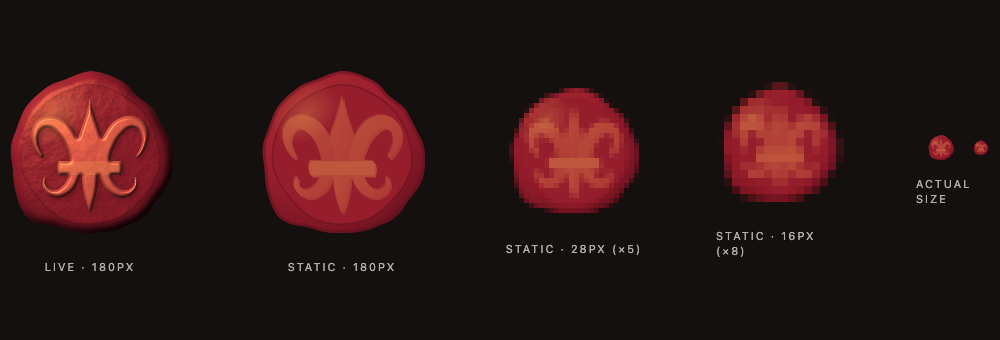
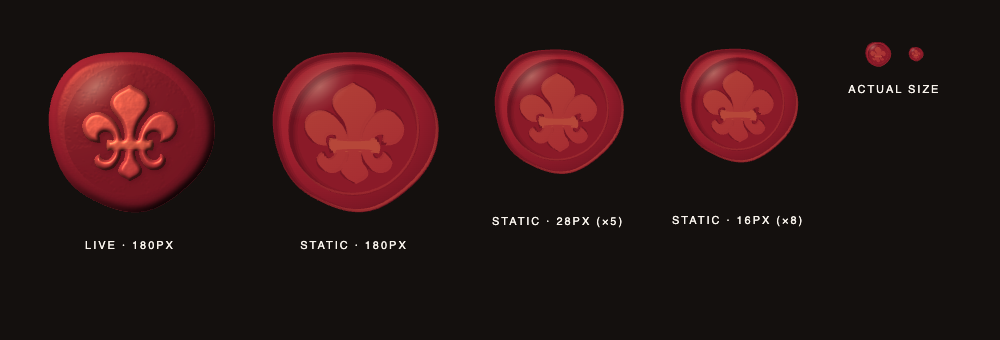
fix(seal): redraw the mark — classic heraldic fleur on poured wax
The first cut read as hand-drawn: spindly petals with hook curls on a
lumpy, flat disc. The fleur-de-lis is now the classic heraldic form
(Wikimedia Commons "Fleur de lis flat", CC0) scaled into the die, with
the band laid over its tie as its own heavier shape. The wax is a smooth
poured puddle modelled in one crimson by light alone: bevelled rim, sunken
field with a soft inner shadow, raised relief with lit and shadowed edges,
and a warm gloss. The live overlay's grain is calmer so the hero seal no
longer mottles.

tools/seal/sheet.test.tsx (opt-in via SEAL_SHEET / SEAL_ASSETS) renders
the design sheet and regenerates favicon.svg and the touch-icon source.

Refs #9

Claude-Session: https://claude.ai/code/session_01XkqtsnKhVTQbKsCyDLmGRB

diff --git a/src/components/sealPaths.ts b/src/components/sealPaths.ts
@@ -2,19 +2,14 @@
 // Vector artwork for the wax seal, in a 100×100 user space centred at (50,50).
 
 /** irregular outline of the wax disc */
-export const WAX = "M96.1,50C96.3,52.4 96.1,54.9 95.9,57.3C95.6,59.7 95.3,62.2 94.4,64.4C93.5,66.7 92,68.7 90.6,70.7C89.2,72.7 87.6,74.4 86.2,76.3C84.8,78.3 83.8,80.5 82.2,82.2C80.6,83.9 78.6,85.4 76.6,86.6C74.6,87.8 72.3,88.5 70.1,89.4C67.9,90.3 65.8,91.3 63.6,91.9C61.4,92.5 59.1,92.9 56.8,93.1C54.6,93.4 52.3,93.3 50,93.3C47.7,93.3 45.4,93.5 43.2,93.2C40.9,93 38.7,92.3 36.4,91.8C34.2,91.2 32.1,90.4 29.7,89.9C27.3,89.3 24.5,89.3 22,88.5C19.6,87.6 17,86.5 15.2,84.8C13.3,83.1 12.1,80.6 11.1,78.3C10,76 9.3,73.5 8.7,71.1C8,68.7 7.7,66.2 7.4,63.8C7.1,61.5 7.1,59.1 6.9,56.8C6.7,54.5 6.1,52.3 6,50C5.9,47.7 5.9,45.3 6.4,43.1C6.8,40.9 7.9,38.7 8.7,36.6C9.4,34.4 10.1,32.3 11,30.1C11.9,28 12.7,25.8 14,23.8C15.2,21.9 16.9,20.2 18.5,18.5C20.2,16.9 21.9,15.3 23.8,13.9C25.6,12.5 27.6,11.2 29.7,10.2C31.8,9.2 34.1,8.7 36.3,7.9C38.5,7.1 40.6,6 42.9,5.2C45.2,4.5 47.6,3.5 50,3.4C52.4,3.2 54.9,3.8 57.2,4.4C59.5,5 61.8,6 64,7.1C66.1,8.1 68.3,9.1 70.1,10.6C71.9,12 73.2,14.2 74.8,15.8C76.5,17.4 78.2,18.6 80,20C81.7,21.5 83.8,22.7 85.2,24.4C86.6,26.2 87.5,28.4 88.5,30.4C89.6,32.4 90.5,34.4 91.6,36.5C92.6,38.6 94.1,40.7 94.8,42.9C95.6,45.2 96,47.6 96.1,50Z";
+export const WAX = "M97.1,50C97.1,51.5 97,53.1 96.8,54.6C96.6,56.1 96.3,57.7 96,59.1C95.6,60.6 95.2,62.1 94.6,63.5C94.1,65 93.5,66.4 92.8,67.7C92.1,69.1 91.3,70.4 90.5,71.6C89.6,72.9 88.7,74.1 87.8,75.2C86.8,76.4 85.8,77.5 84.8,78.6C83.8,79.6 82.7,80.6 81.6,81.6C80.5,82.6 79.4,83.6 78.3,84.5C77.2,85.4 76,86.3 74.8,87.2C73.6,88 72.4,88.9 71.2,89.7C70,90.5 68.7,91.2 67.4,91.9C66,92.6 64.7,93.2 63.3,93.8C61.9,94.3 60.4,94.7 59,95.1C57.5,95.4 56,95.6 54.5,95.7C53,95.8 51.5,95.7 50,95.6C48.5,95.5 47,95.3 45.6,95C44.1,94.7 42.7,94.3 41.3,93.8C39.9,93.4 38.5,92.9 37.2,92.4C35.8,91.8 34.5,91.3 33.2,90.7C31.8,90.1 30.5,89.5 29.3,88.8C28,88.1 26.7,87.4 25.5,86.7C24.3,85.9 23.1,85.1 21.9,84.2C20.8,83.3 19.7,82.4 18.6,81.4C17.6,80.4 16.6,79.3 15.7,78.2C14.8,77 13.9,75.8 13.1,74.6C12.4,73.4 11.7,72.1 11,70.8C10.4,69.5 9.8,68.2 9.3,66.9C8.7,65.5 8.3,64.2 7.8,62.8C7.4,61.4 7,60 6.6,58.6C6.3,57.2 6,55.8 5.7,54.4C5.4,52.9 5.2,51.5 5.1,50C4.9,48.5 4.8,47 4.8,45.5C4.8,44.1 4.8,42.5 4.9,41C5.1,39.5 5.3,38 5.6,36.5C5.8,35 6.2,33.5 6.6,32C7.1,30.6 7.6,29.1 8.2,27.7C8.8,26.2 9.5,24.8 10.3,23.5C11.1,22.1 11.9,20.8 12.9,19.5C13.8,18.3 14.9,17.1 16,16C17.1,14.9 18.4,13.9 19.7,13C21,12.1 22.3,11.4 23.7,10.7C25.1,10 26.6,9.5 28.1,9C29.6,8.5 31.1,8.2 32.6,7.9C34.1,7.6 35.6,7.4 37,7.3C38.5,7.1 40,7 41.4,7C42.9,6.9 44.3,6.9 45.7,6.8C47.2,6.8 48.6,6.8 50,6.8C51.4,6.9 52.8,6.9 54.2,7C55.6,7.2 57.1,7.3 58.4,7.5C59.8,7.8 61.2,8 62.6,8.4C64,8.8 65.3,9.2 66.7,9.8C68,10.3 69.3,10.9 70.5,11.6C71.8,12.3 73,13 74.2,13.8C75.3,14.6 76.5,15.5 77.6,16.4C78.7,17.3 79.8,18.2 80.9,19.1C81.9,20.1 83,21.1 84,22.1C85,23.1 86,24.2 87,25.3C88,26.4 88.9,27.5 89.8,28.7C90.7,29.9 91.5,31.2 92.3,32.5C93.1,33.8 93.8,35.1 94.4,36.5C95,37.9 95.5,39.4 95.9,40.9C96.3,42.4 96.6,43.9 96.8,45.4C97,46.9 97.1,48.5 97.1,50Z";
 /** pressed field inside the raised rim */
-export const FIELD = "M88.7,50C88.8,52.9 88.7,55.9 88,58.7C87.3,61.4 85.9,64.1 84.5,66.6C83.1,69.1 81.2,71.3 79.4,73.4C77.5,75.6 75.6,77.6 73.5,79.5C71.4,81.3 69.1,83.1 66.6,84.4C64.1,85.8 61.3,86.7 58.5,87.4C55.8,88 52.9,88.3 50,88.4C47.1,88.4 44.2,88.3 41.4,87.7C38.6,87.1 35.8,86.1 33.3,84.8C30.8,83.4 28.5,81.5 26.4,79.6C24.3,77.7 22.5,75.5 20.8,73.3C19,71.1 17.2,68.9 15.8,66.5C14.4,64 13.1,61.3 12.3,58.6C11.6,55.9 11.3,52.9 11.3,50C11.4,47.1 11.9,44.2 12.6,41.5C13.3,38.7 14.3,35.9 15.5,33.4C16.8,30.9 18.3,28.4 20.2,26.2C22,24.1 24.2,22.2 26.5,20.5C28.7,18.8 31.2,17.4 33.7,16.1C36.2,14.8 38.7,13.5 41.5,12.6C44.2,11.8 47.1,11.1 50,11C52.9,11 55.9,11.5 58.6,12.3C61.3,13.1 64,14.4 66.5,15.8C69,17.1 71.4,18.6 73.6,20.4C75.8,22.2 78,24.1 79.7,26.3C81.5,28.5 82.9,31 84.2,33.5C85.4,36.1 86.3,38.8 87.1,41.5C87.8,44.3 88.5,47.1 88.7,50Z";
+export const FIELD = "M86.5,50C86.5,51.6 86.4,53.2 86.2,54.8C86,56.3 85.7,57.9 85.3,59.4C84.8,61 84.3,62.5 83.7,64C83.1,65.4 82.4,66.9 81.6,68.3C80.8,69.6 79.9,71 79,72.2C78,73.5 76.9,74.7 75.8,75.8C74.7,76.9 73.5,78 72.2,79C71,79.9 69.6,80.8 68.3,81.6C66.9,82.4 65.4,83.1 64,83.7C62.5,84.3 61,84.8 59.4,85.3C57.9,85.7 56.3,86 54.8,86.2C53.2,86.4 51.6,86.5 50,86.5C48.4,86.5 46.8,86.4 45.2,86.2C43.7,86 42.1,85.7 40.6,85.3C39,84.8 37.5,84.3 36,83.7C34.6,83.1 33.1,82.4 31.8,81.6C30.4,80.8 29,79.9 27.8,79C26.5,78 25.3,76.9 24.2,75.8C23.1,74.7 22,73.5 21,72.2C20.1,71 19.2,69.6 18.4,68.3C17.6,66.9 16.9,65.4 16.3,64C15.7,62.5 15.2,61 14.7,59.4C14.3,57.9 14,56.3 13.8,54.8C13.6,53.2 13.5,51.6 13.5,50C13.5,48.4 13.6,46.8 13.8,45.2C14,43.7 14.3,42.1 14.7,40.6C15.2,39 15.7,37.5 16.3,36C16.9,34.6 17.6,33.1 18.4,31.7C19.2,30.4 20.1,29 21,27.8C22,26.5 23.1,25.3 24.2,24.2C25.3,23.1 26.5,22 27.8,21C29,20.1 30.4,19.2 31.7,18.4C33.1,17.6 34.6,16.9 36,16.3C37.5,15.7 39,15.2 40.6,14.7C42.1,14.3 43.7,14 45.2,13.8C46.8,13.6 48.4,13.5 50,13.5C51.6,13.5 53.2,13.6 54.8,13.8C56.3,14 57.9,14.3 59.4,14.7C61,15.2 62.5,15.7 64,16.3C65.4,16.9 66.9,17.6 68.3,18.4C69.6,19.2 71,20.1 72.2,21C73.5,22 74.7,23.1 75.8,24.2C76.9,25.3 78,26.5 79,27.8C79.9,29 80.8,30.4 81.6,31.7C82.4,33.1 83.1,34.6 83.7,36C84.3,37.5 84.8,39 85.3,40.6C85.7,42.1 86,43.7 86.2,45.2C86.4,46.8 86.5,48.4 86.5,50Z";
 /** fleur-de-lis pieces, excluding the band */
 export const FLEUR = {
-  centre: "M50,16.5C50.6,23.5 53.8,31 56.4,39.5C58.4,46 57.6,50.5 56.2,54L43.8,54C42.4,50.5 41.6,46 43.6,39.5C46.2,31 49.4,23.5 50,16.5Z",
-  petalL: "M46.1,56.7C47.2,56 46.1,53.9 46,52.5C45.9,51.1 45.7,49.5 45.5,48.1C45.2,46.6 44.8,45.1 44.3,43.7C43.8,42.2 43.3,40.9 42.7,39.6C42,38.2 41.4,36.8 40.5,35.5C39.6,34.2 38.5,32.7 37.2,31.6C35.9,30.5 34.3,29.5 32.6,28.9C30.9,28.2 29,27.7 27.1,27.9C25.3,28.1 23,28.8 21.5,29.8C20,30.9 18.8,32.6 18.1,34.2C17.3,35.7 17.2,37.7 17.2,39.3C17.2,40.9 17.5,42.3 18,43.8C18.4,45.2 19.2,46.7 19.9,48C20.7,49.2 21.9,50.6 22.5,51.2C23,51.8 22.9,51.6 23.2,51.7C23.4,51.7 23.8,51.7 24,51.5C24.2,51.4 24.4,51.1 24.5,50.8C24.5,50.6 24.7,50.7 24.3,50C24,49.3 22.9,47.7 22.5,46.5C22,45.3 21.7,44.1 21.5,43C21.4,41.8 21.4,40.7 21.7,39.6C21.9,38.6 22.4,37.4 22.9,36.7C23.5,35.9 24.3,35.5 25,35.2C25.6,34.9 26.3,34.9 27,35C27.7,35.1 28.5,35.4 29.2,35.9C30,36.4 30.7,37.2 31.4,37.9C32.2,38.6 33,39.4 33.6,40.3C34.3,41.1 34.8,42.1 35.4,43.1C35.9,44.1 36.5,45.3 36.9,46.4C37.4,47.5 37.8,48.6 38.1,49.8C38.4,50.9 38.5,51.8 38.7,53.1C38.9,54.3 37.9,56.6 39.1,57.3C40.3,57.9 44.9,57.5 46.1,56.7Z",
-  petalR: "M53.9,56.7C52.8,56 53.9,53.9 54,52.5C54.1,51.1 54.3,49.5 54.5,48.1C54.8,46.6 55.2,45.1 55.7,43.7C56.2,42.2 56.7,40.9 57.3,39.6C58,38.2 58.6,36.8 59.5,35.5C60.4,34.2 61.5,32.7 62.8,31.6C64.1,30.5 65.7,29.5 67.4,28.9C69.1,28.2 71,27.7 72.9,27.9C74.7,28.1 77,28.8 78.5,29.8C80,30.9 81.2,32.6 81.9,34.2C82.7,35.7 82.8,37.7 82.8,39.3C82.8,40.9 82.5,42.3 82,43.8C81.6,45.2 80.8,46.7 80.1,48C79.3,49.2 78.1,50.6 77.5,51.2C77,51.8 77.1,51.6 76.8,51.7C76.6,51.7 76.2,51.7 76,51.5C75.8,51.4 75.6,51.1 75.5,50.8C75.5,50.6 75.3,50.7 75.7,50C76,49.3 77.1,47.7 77.5,46.5C78,45.3 78.3,44.1 78.5,43C78.6,41.8 78.6,40.7 78.3,39.6C78.1,38.6 77.6,37.4 77.1,36.7C76.5,35.9 75.7,35.5 75,35.2C74.4,34.9 73.7,34.9 73,35C72.3,35.1 71.5,35.4 70.8,35.9C70,36.4 69.3,37.2 68.6,37.9C67.8,38.6 67,39.4 66.4,40.3C65.7,41.1 65.2,42.1 64.6,43.1C64.1,44.1 63.5,45.3 63.1,46.4C62.6,47.5 62.2,48.6 61.9,49.8C61.6,50.9 61.5,51.8 61.3,53.1C61.1,54.3 62.1,56.6 60.9,57.3C59.7,57.9 55.1,57.5 53.9,56.7Z",
-  footC: "M50,82.5C52.8,76 54.9,68.5 54.4,60.5L45.6,60.5C45.1,68.5 47.2,76 50,82.5Z",
-  footL: "M39.5,57.2C38.4,57.3 39.1,58.8 38.9,59.5C38.7,60.2 38.5,60.8 38.3,61.4C38,62 37.8,62.5 37.5,63C37.2,63.6 36.8,64.2 36.5,64.7C36.2,65.2 36,65.7 35.6,66.1C35.3,66.5 34.9,67 34.4,67.4C34,67.8 33.5,68.2 33,68.5C32.6,68.8 32.2,69 31.7,69.1C31.2,69.3 30.7,69.3 30.1,69.3C29.6,69.3 29,69.2 28.5,69C28,68.8 27.6,68.5 27.1,68.2C26.7,67.8 26.2,67.3 25.9,66.8C25.6,66.3 25.5,65.8 25.4,65.1C25.4,64.5 25.5,63.3 25.4,62.9C25.4,62.4 25.4,62.5 25.3,62.4C25.2,62.3 25,62.2 24.9,62.2C24.7,62.1 24.5,62.2 24.4,62.3C24.3,62.4 24.3,62.3 24.2,62.7C24,63.2 23.6,64.1 23.5,64.9C23.4,65.8 23.3,66.9 23.5,67.8C23.8,68.7 24.2,69.5 24.8,70.2C25.3,71 26,71.7 26.7,72.2C27.5,72.7 28.4,73.2 29.3,73.4C30.2,73.7 31.2,73.9 32.2,73.9C33.2,73.8 34.4,73.5 35.3,73.2C36.2,72.9 37,72.4 37.8,71.9C38.6,71.4 39.3,70.9 40,70.3C40.7,69.7 41.3,68.9 41.8,68.2C42.4,67.4 42.7,66.7 43.1,65.9C43.5,65.1 43.8,64.3 44.1,63.4C44.4,62.6 44.6,61.8 44.8,61C45,60.2 46.2,59.5 45.3,58.8C44.4,58.2 40.6,57.1 39.5,57.2Z",
-  footR: "M60.5,57.2C61.6,57.3 60.9,58.8 61.1,59.5C61.3,60.2 61.5,60.8 61.7,61.4C62,62 62.2,62.5 62.5,63C62.8,63.6 63.2,64.2 63.5,64.7C63.8,65.2 64,65.7 64.4,66.1C64.7,66.5 65.1,67 65.6,67.4C66,67.8 66.5,68.2 67,68.5C67.4,68.8 67.8,69 68.3,69.1C68.8,69.3 69.3,69.3 69.9,69.3C70.4,69.3 71,69.2 71.5,69C72,68.8 72.4,68.5 72.9,68.2C73.3,67.8 73.8,67.3 74.1,66.8C74.4,66.3 74.5,65.8 74.6,65.1C74.6,64.5 74.5,63.3 74.6,62.9C74.6,62.4 74.6,62.5 74.7,62.4C74.8,62.3 75,62.2 75.1,62.2C75.3,62.1 75.5,62.2 75.6,62.3C75.7,62.4 75.7,62.3 75.8,62.7C76,63.2 76.4,64.1 76.5,64.9C76.6,65.8 76.7,66.9 76.5,67.8C76.2,68.7 75.8,69.5 75.2,70.2C74.7,71 74,71.7 73.3,72.2C72.5,72.7 71.6,73.2 70.7,73.4C69.8,73.7 68.8,73.9 67.8,73.9C66.8,73.8 65.6,73.5 64.7,73.2C63.8,72.9 63,72.4 62.2,71.9C61.4,71.4 60.7,70.9 60,70.3C59.3,69.7 58.7,68.9 58.2,68.2C57.6,67.4 57.3,66.7 56.9,65.9C56.5,65.1 56.2,64.3 55.9,63.4C55.6,62.6 55.4,61.8 55.2,61C55,60.2 53.8,59.5 54.7,58.8C55.6,58.2 59.4,57.1 60.5,57.2Z",
+  lis: "M 50,24.5 C 50.1,24.5 50.1,24.5 50.2,24.5C 50.5,24.8 50.8,25.1 51.2,25.3C 52.9,26.1 54.5,27 56.2,27.9C 57.6,28.7 58.8,29.7 59.8,30.9C 61.4,33.7 61.4,36.6 59.8,39.4C 58.5,41.3 57.1,43.1 55.7,44.8C 54,47.6 53.1,50.6 53,53.9C 53,54.2 53,54.4 53.1,54.7C 53.1,55.4 53.4,55.6 54.1,55.4C 54.2,55.3 54.2,55.3 54.3,55.2C 55.1,50.4 57.1,46.3 60.6,42.8C 62.7,40.9 65.2,39.8 68,39.4C 72.2,39.9 74.9,42.1 76.3,46.1C 76.4,46.8 76.5,47.4 76.6,48.1C 76.6,48.2 76.6,48.3 76.6,48.4C 76.4,51.5 75,54.1 72.4,55.9C 70.5,56.8 68.4,57.2 66.3,57.1C 66.4,56.5 66.6,56 66.8,55.5C 67.1,54.5 67.1,53.6 66.8,52.6C 65.5,51.1 64,50.7 62.1,51.3C 60.2,52.1 59.2,53.5 59.2,55.6C 59.3,55.8 59.4,56 59.7,56.1C 60.6,56.4 61.5,56.8 62.3,57.3C 63.5,58.3 63.5,59.2 62.3,60.2C 61.4,60.7 60.5,61.2 59.5,61.5C 59.3,61.6 59.2,61.8 59.2,62C 59.6,63.6 60.4,64.9 61.7,66C 63,66.9 64.3,66.8 65.6,65.7C 66.2,65 66.6,64.2 66.8,63.3C 66.8,63.1 66.9,63 67.1,63C 68.7,63.8 69.7,65.1 70.1,66.9C 69.6,70 67.8,71.8 64.7,72.4C 61.6,72.7 59.1,71.7 57.3,69.1C 56.3,67.5 55.5,65.8 55,64C 54.8,63.3 54.8,62.5 54.8,61.7C 54.1,61.7 53.4,61.7 52.6,61.7C 52.8,63.2 53,64.6 53.3,65.9C 53.8,67.1 54.4,68.1 55.3,69C 55.9,69.9 56.3,70.9 56.6,71.9C 56.9,73.3 56.5,74.5 55.4,75.4C 54.9,75.7 54.4,76.1 53.9,76.4C 52.6,77 51.3,77.7 50,78.5C 50,78.5 49.9,78.5 49.9,78.5C 49.5,78.1 49.1,77.8 48.6,77.5C 47.3,76.9 46.1,76.3 44.9,75.5C 43.2,74.1 42.9,72.4 43.9,70.4C 44.2,69.9 44.5,69.4 44.8,68.9C 46,67.7 46.8,66.2 47,64.5C 47.2,63.6 47.3,62.7 47.4,61.7C 46.6,61.7 45.9,61.7 45.2,61.7C 45.3,63.4 45,64.9 44.2,66.4C 43.5,68.2 42.4,69.7 41,71C 38.4,72.8 35.6,73 32.8,71.4C 31,70.3 30,68.6 30,66.4C 30.5,64.8 31.5,63.7 33,63C 33.1,63 33.2,63.1 33.2,63.2C 33.5,65 34.5,66.1 36.2,66.6C 37.4,66.7 38.4,66.2 39.1,65.3C 39.9,64.4 40.4,63.5 40.8,62.4C 40.9,61.8 40.7,61.5 40.2,61.3C 39.2,61.1 38.4,60.6 37.6,60.1C 36.6,59 36.7,58 38,57.1C 38.8,56.7 39.7,56.4 40.6,56C 40.9,55.3 40.9,54.6 40.6,53.8C 39.4,51.6 37.6,50.7 35.2,51.2C 34.2,51.5 33.5,52.1 33.1,53C 32.9,54.4 33.2,55.8 33.8,57.1C 28,57.4 24.6,54.8 23.4,49.2C 23.4,48.4 23.4,47.5 23.4,46.7C 24.1,43.5 26.1,41.3 29.2,40.3C 31.9,39.5 34.5,39.8 36.9,41.2C 41.1,43.6 43.8,47.1 45,51.8C 45.2,52.9 45.4,54.1 45.7,55.2C 46,55.5 46.4,55.5 46.8,55.3C 47.1,51.8 46.4,48.6 44.8,45.4C 43.6,43.9 42.4,42.4 41.1,40.9C 40.1,39.7 39.4,38.3 38.9,36.7C 38.5,34.4 39,32.4 40.6,30.6C 41.6,29.4 42.9,28.4 44.3,27.6C 46.3,26.7 48.2,25.7 50,24.5 Z",
 } as const;
 /** the horizontal band across the fleur-de-lis */
-export const BAND = "M32.6,53.2C33.6,53.6 66.4,53.6 67.4,53.2C68.6,56 68.6,58.4 67.4,61.4C66.4,61 33.6,61 32.6,61.4C31.4,58.4 31.4,56 32.6,53.2Z";
+export const BAND = "M37.4,55.2C43.1,56.6 56.9,56.6 62.6,55.2C63.5,58.4 63.5,58.4 62.6,61.6C56.9,60.2 43.1,60.2 37.4,61.6C36.5,58.4 36.5,58.4 37.4,55.2Z";
 /** a bead of wax with a tail, in place over the disc; the intro drops it in and pools it into WAX */
 export const DRIP = "M50,9C51.2,9 52.1,17.5 53.5,22C54.9,26.5 56.8,31.3 58.5,36C60.2,40.7 62.6,45.7 63.5,50C64.4,54.3 64.7,58.3 64,62C63.3,65.7 61.8,69.7 59.5,72C57.2,74.3 53.2,76 50,76C46.8,76 42.8,74.3 40.5,72C38.2,69.7 36.7,65.7 36,62C35.3,58.3 35.6,54.3 36.5,50C37.4,45.7 39.8,40.7 41.5,36C43.2,31.3 45.1,26.5 46.5,22C47.9,17.5 48.8,9 50,9Z";

diff --git a/src/components/Seal.tsx b/src/components/Seal.tsx
@@ -30,15 +30,17 @@ export const SEAL_VIEWBOX = 100;
 /** token colour as a CSS var with the literal as fallback, so the mark survives without the stylesheet */
 const c = (t: Token) => `var(${cssVar(t)}, ${tokens[t]})`;
 
-/** pre-flattened tones: raised wax catches the flame, pressed wax falls into shadow */
+/** pre-flattened tones: one crimson wax, modelled only by light — lit faces warm toward the flame, recesses fall to sealDeep */
 const tone = {
-  rimLit: mix(tokens.seal, tokens.sealHighlight, 0.18),
-  field: mix(tokens.seal, tokens.sealDeep, 0.12),
-  shade: mix(tokens.seal, tokens.sealDeep, 0.55),
-  fleurLit: mix(tokens.seal, tokens.sealHighlight, 0.5),
-  fleur: mix(tokens.seal, tokens.sealHighlight, 0.28),
-  bandLit: mix(tokens.seal, tokens.sealHighlight, 0.58),
-  edge: mix(tokens.sealHighlight, tokens.cream, 0.35),
+  lit: mix(tokens.seal, tokens.sealHighlight, 0.22),
+  body: tokens.seal,
+  shade: mix(tokens.seal, tokens.sealDeep, 0.5),
+  field: mix(tokens.seal, tokens.sealDeep, 0.3),
+  faceLit: mix(tokens.seal, tokens.sealHighlight, 0.34),
+  face: mix(tokens.seal, tokens.sealHighlight, 0.14),
+  bandLit: mix(tokens.seal, tokens.sealHighlight, 0.42),
+  edge: mix(tokens.sealHighlight, tokens.cream, 0.4),
+  gloss: mix(tokens.sealHighlight, tokens.cream, 0.55),
 };
 
 /** the light sits top-left, as if the seal were lit by the flames */
@@ -63,6 +65,7 @@ export default function Seal({
     emboss: `${id}-emboss`,
     goo: `${id}-goo`,
     impression: `${id}-impression`,
+    fieldClip: `${id}-field`,
   };
   const live = variant === "live";
 
@@ -77,44 +80,63 @@ export default function Seal({
     >
       <title>{title}</title>
       <defs>
-        <radialGradient id={ids.body} cx="0.36" cy="0.32" r="0.78">
-          <stop offset="0" stopColor={tone.rimLit} />
-          <stop offset="0.5" stopColor={c("seal")} />
-          <stop offset="0.86" stopColor={tone.shade} />
+        <radialGradient id={ids.body} cx="0.38" cy="0.34" r="0.72">
+          <stop offset="0" stopColor={tone.lit} />
+          <stop offset="0.55" stopColor={tone.body} />
+          <stop offset="0.9" stopColor={tone.shade} />
           <stop offset="1" stopColor={c("sealDeep")} />
         </radialGradient>
-        <linearGradient id={ids.face} x1="0" y1="0" x2="1" y2="1">
-          <stop offset="0" stopColor={tone.fleurLit} />
-          <stop offset="1" stopColor={tone.fleur} />
+        <linearGradient id={ids.face} x1="0.2" y1="0" x2="0.8" y2="1">
+          <stop offset="0" stopColor={tone.faceLit} />
+          <stop offset="1" stopColor={tone.face} />
         </linearGradient>
         <radialGradient id={ids.glow} cx="0.5" cy="0.5" r="0.5">
-          <stop offset="0" stopColor={c("sealHighlight")} stopOpacity="0.55" />
-          <stop offset="1" stopColor={c("sealHighlight")} stopOpacity="0" />
+          <stop offset="0" stopColor={tone.gloss} stopOpacity="0.5" />
+          <stop offset="0.6" stopColor={tone.gloss} stopOpacity="0.12" />
+          <stop offset="1" stopColor={tone.gloss} stopOpacity="0" />
         </radialGradient>
         <clipPath id={ids.clip}>
           <path d={WAX} />
         </clipPath>
+        <clipPath id={ids.fieldClip}>
+          <path d={FIELD} />
+        </clipPath>
       </defs>
 
-      {/* the wax: an irregular disc with a raised rim around the pressed field */}
+      {/* the wax: a poured disc whose rim is bevelled by the light, around the die's sunken face */}
       <g data-seal="body">
         <path data-seal="wax" d={WAX} fill={`url(#${ids.body})`} />
-        <path
-          d={WAX}
-          fill="none"
-          stroke={c("sealDeep")}
-          strokeWidth="3"
-          strokeOpacity="0.5"
-          clipPath={`url(#${ids.clip})`}
-        />
+        <g clipPath={`url(#${ids.clip})`}>
+          {/* the outer bevel: lit on the flame side, falling into shade opposite */}
+          <path d={WAX} fill="none" stroke={tone.lit} strokeWidth="1.6" strokeOpacity="0.9" transform="translate(-0.9 -1)" />
+          {[
+            [6.5, 0.22],
+            [4.2, 0.3],
+            [2.2, 0.45],
+          ].map(([w, o]) => (
+            <path key={w} d={WAX} fill="none" stroke={c("sealDeep")} strokeWidth={w} strokeOpacity={o} transform="translate(1.5 1.7)" />
+          ))}
+        </g>
         <path d={FIELD} fill={tone.field} />
-        <path d={FIELD} fill="none" stroke={c("sealDeep")} strokeOpacity="0.45" strokeWidth="0.9" />
+        <g clipPath={`url(#${ids.fieldClip})`}>
+          {/* the sunken face: shadow under its top-left wall, a glint on the lower-right */}
+          {[
+            [7, 0.2],
+            [4.4, 0.3],
+            [2.2, 0.5],
+          ].map(([w, o]) => (
+            <path key={w} d={FIELD} fill="none" stroke={c("sealDeep")} strokeWidth={w} strokeOpacity={o} transform="translate(1.6 1.8)" />
+          ))}
+          <path d={FIELD} fill="none" stroke={tone.lit} strokeWidth="1.2" strokeOpacity="0.55" transform="translate(-0.9 -1)" />
+        </g>
       </g>
 
       {/* the impression: fleur-de-lis with its band as its own, heavier shape */}
       <g data-seal="relief">
-        <use href={`#${ids.impression}`} fill={c("sealDeep")} fillOpacity="0.8" transform="translate(1.1 1.2)" />
-        <use href={`#${ids.impression}`} fill={tone.edge} fillOpacity="0.55" transform="translate(-0.6 -0.7)" />
+        {/* a soft press-line around the relief, then its shadow and its lit edge */}
+        <use href={`#${ids.impression}`} fill="none" stroke={c("sealDeep")} strokeWidth="2.4" strokeOpacity="0.45" />
+        <use href={`#${ids.impression}`} fill={c("sealDeep")} fillOpacity="0.95" transform="translate(1.3 1.5)" />
+        <use href={`#${ids.impression}`} fill={tone.edge} fillOpacity="0.85" transform="translate(-0.8 -0.9)" />
         <g id={ids.impression}>
           <g fill={`url(#${ids.face})`}>
             <g data-seal="fleur">
@@ -133,13 +155,13 @@ export default function Seal({
       <g clipPath={`url(#${ids.clip})`}>
         <ellipse
           data-seal="highlight"
-          cx="30"
-          cy="27"
-          rx="21"
-          ry="15"
-          transform="rotate(-38 30 27)"
+          cx="31"
+          cy="26"
+          rx="24"
+          ry="13"
+          transform="rotate(-40 31 26)"
           fill={`url(#${ids.glow})`}
-          opacity="0.8"
+          opacity="0.9"
         />
       </g>
 
@@ -155,20 +177,20 @@ export default function Seal({
             filterUnits="userSpaceOnUse"
             colorInterpolationFilters="sRGB"
           >
-            <feTurbulence type="fractalNoise" baseFrequency="0.09" numOctaves="3" seed="11" result="mottle" />
+            <feTurbulence type="fractalNoise" baseFrequency="0.05" numOctaves="2" seed="11" result="mottle" />
             <feTurbulence type="fractalNoise" baseFrequency="0.55" numOctaves="2" seed="5" result="grain" />
             <feComposite in="mottle" in2="grain" operator="arithmetic" k2="0.75" k3="0.18" result="texture" />
             <feGaussianBlur in="SourceAlpha" stdDeviation="2.4" result="bevel" />
-            <feComposite in="bevel" in2="texture" operator="arithmetic" k2="0.86" k3="0.06" result="bump" />
-            <feDiffuseLighting in="bump" surfaceScale="5" diffuseConstant="1" lightingColor="#fff" result="diff">
+            <feComposite in="bevel" in2="texture" operator="arithmetic" k2="0.9" k3="0.025" result="bump" />
+            <feDiffuseLighting in="bump" surfaceScale="4" diffuseConstant="1" lightingColor="#fff" result="diff">
               <feDistantLight azimuth={LIGHT.azimuth} elevation={LIGHT.elevation} />
             </feDiffuseLighting>
             <feComposite in="diff" in2="SourceGraphic" operator="arithmetic" k1="0.9" k3="0.18" result="lit" />
             <feSpecularLighting
               in="bump"
               surfaceScale="5"
-              specularConstant="0.45"
-              specularExponent="36"
+              specularConstant="0.35"
+              specularExponent="48"
               lightingColor={tokens.sealHighlight}
               result="spec"
             >
@@ -241,17 +263,16 @@ export default function Seal({
             <g filter={`url(#${ids.wax})`}>
               <path d={WAX} fill={`url(#${ids.body})`} />
               <path d={FIELD} fill={tone.field} fillOpacity="0.9" />
-              <path d={FIELD} fill="none" stroke={c("sealDeep")} strokeOpacity="0.45" strokeWidth="0.9" />
             </g>
             <g clipPath={`url(#${ids.clip})`}>
               <ellipse
-                cx="30"
-                cy="27"
-                rx="21"
-                ry="15"
-                transform="rotate(-38 30 27)"
+                cx="31"
+                cy="26"
+                rx="24"
+                ry="13"
+                transform="rotate(-40 31 26)"
                 fill={`url(#${ids.glow})`}
-                opacity="0.85"
+                opacity="0.9"
               />
             </g>
           </g>

diff --git a/tools/seal/sheet.test.tsx b/tools/seal/sheet.test.tsx
@@ -1,0 +1,73 @@
+/**
+ * Design sheet for the seal — not a test of behaviour. Renders the component
+ * to static markup and writes an HTML page; a headless browser turns it into
+ * docs/design/seal/seal-review-sheet.png. Runs only when SEAL_SHEET=1:
+ *   SEAL_SHEET=1 pnpm vitest run tools/seal/sheet.test.tsx
+ */
+import { mkdirSync, writeFileSync } from "node:fs";
+import { renderToStaticMarkup } from "react-dom/server";
+import { it } from "vitest";
+
+import Seal from "@/components/Seal";
+import { cssVar, tokens, type Token } from "@/theme/tokens";
+
+const vars = (Object.keys(tokens) as Token[]).map((t) => `${cssVar(t)}: ${tokens[t]};`).join(" ");
+
+function cell(label: string, markup: string, scale = 1) {
+  return `<figure><div class="art" style="zoom:${scale};image-rendering:pixelated">${markup}</div><figcaption>${label}</figcaption></figure>`;
+}
+
+it.skipIf(!process.env.SEAL_SHEET)("writes the seal design sheet", () => {
+  const live180 = renderToStaticMarkup(<Seal variant="live" size={180} />);
+  const static180 = renderToStaticMarkup(<Seal variant="static" size={180} />);
+  const static28 = renderToStaticMarkup(<Seal variant="static" size={28} />);
+  const static16 = renderToStaticMarkup(<Seal variant="static" size={16} />);
+  const html = `<!doctype html><html><head><style>
+    :root { ${vars} }
+    body { margin: 0; background: ${tokens.ink}; color: ${tokens.cream}; font: 11px/1.4 -apple-system, sans-serif; letter-spacing: .18em; text-transform: uppercase }
+    .row { display: flex; align-items: flex-start; gap: 44px; padding: 40px }
+    figure { margin: 0; display: flex; flex-direction: column; align-items: center; gap: 14px }
+    .art { display: block }
+  </style></head><body><div class="row">
+    ${cell("live · 180px", live180)}
+    ${cell("static · 180px", static180)}
+    ${cell("static · 28px (×5)", static28, 5)}
+    ${cell("static · 16px (×8)", static16, 8)}
+    <figure><div class="art" style="display:flex;gap:16px;align-items:center">${static28}${static16}</div><figcaption>actual size</figcaption></figure>
+  </div></body></html>`;
+  const dir = process.env.SEAL_SHEET_DIR ?? "docs/design/seal";
+  mkdirSync(dir, { recursive: true });
+  writeFileSync(`${dir}/seal-review-sheet.html`, html);
+});
+
+/**
+ * Static assets: public/favicon.svg (hex-resolved, standalone) and an HTML
+ * page the same headless browser turns into public/apple-touch-icon.png.
+ *   SEAL_ASSETS=1 pnpm vitest run tools/seal/sheet.test.tsx
+ */
+it.skipIf(!process.env.SEAL_ASSETS)("writes the favicon and touch-icon sources", () => {
+  const resolve = (markup: string) =>
+    markup.replace(/var\((--color-[a-z-]+), (#[0-9a-f]{6})\)/gi, (_, __, hex: string) => hex);
+  const favicon = resolve(renderToStaticMarkup(<Seal variant="static" size={64} title="Grace City Collective" />))
+    .replace("<svg ", '<svg xmlns="http://www.w3.org/2000/svg" ')
+    .replace(/ style="[^"]*"/, "");
+  writeFileSync("public/favicon.svg", `${favicon}\n`);
+  const touch = resolve(renderToStaticMarkup(<Seal variant="static" size={152} title="Grace City Collective" />));
+  const dir = process.env.SEAL_SHEET_DIR ?? "docs/design/seal";
+  mkdirSync(dir, { recursive: true });
+  writeFileSync(
+    `${dir}/apple-touch-icon.html`,
+    `<!doctype html><html><body style="margin:0;width:180px;height:180px;background:${tokens.ink};display:flex;align-items:center;justify-content:center">${touch}</body></html>`,
+  );
+  for (const [name, variant, size] of [
+    ["hero-180", "live", 180],
+    ["nav-28", "static", 28],
+    ["favicon-16", "static", 16],
+  ] as const) {
+    const art = renderToStaticMarkup(<Seal variant={variant} size={size} />);
+    writeFileSync(
+      `${dir}/seal-${name}.html`,
+      `<!doctype html><html><body style="margin:0;background:${tokens.ink};padding:10px;display:inline-block">${art}</body></html>`,
+    );
+  }
+});
